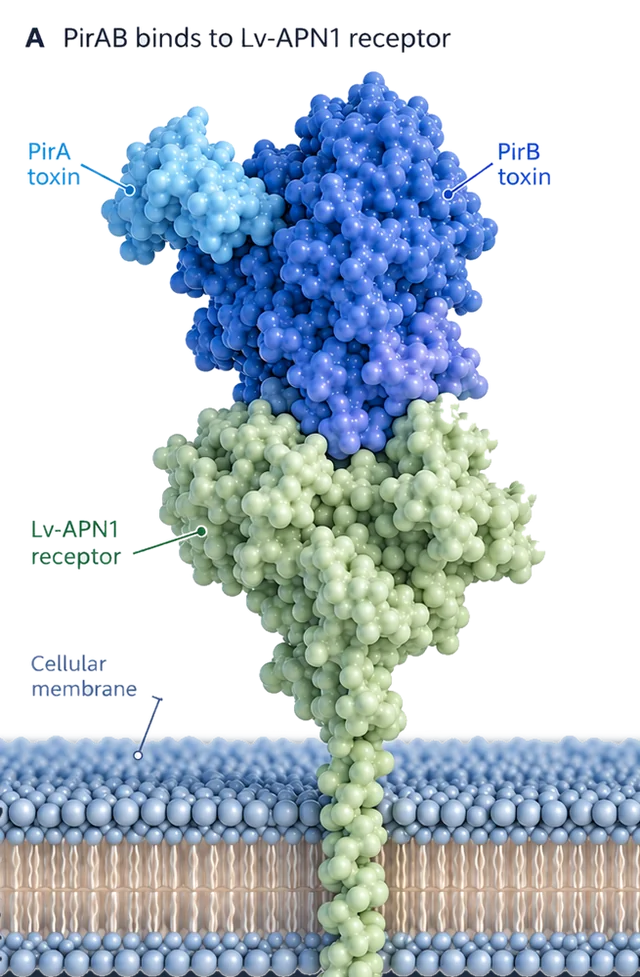
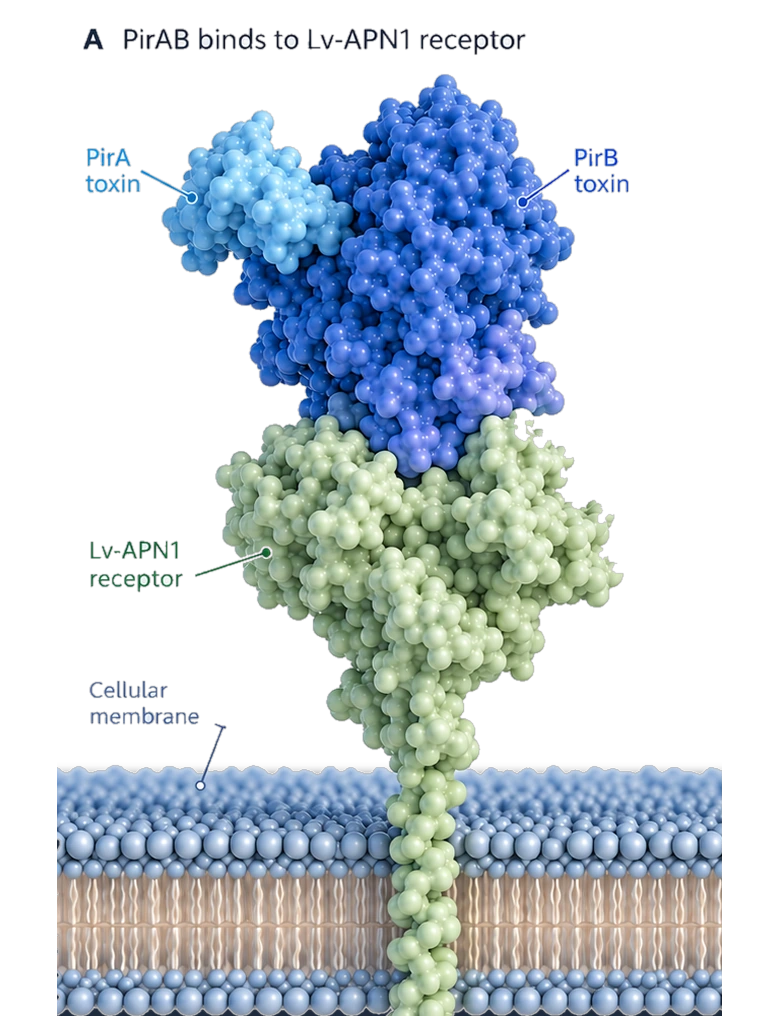
Add files via upload

diff --git a/index.html b/index.html
@@ -247,13 +247,17 @@
           <p>In our lead application, a Knotide Bio protein is designed to neutralise the toxin a pathogen needs to damage its host, rather than relying on broad antimicrobial activity, an approach we are extending to other pathogens, targets and species within the platform.</p>
           <p class="example-note">Knotide Bio's first application case is <em>AHPND in shrimp aquaculture</em>, chosen for its regulatory urgency, market size and a well-characterised molecular target. Sea lice in salmon aquaculture is the platform's second application, sharing the same core mechanism and administration routes already used by the industry.</p>
         </div>
-        <figure class="example-figure-col">
-          <img src="images/mechanism-panel-a.webp" alt="Diagram A: the PirA/PirB toxin complex binding the Lv-APN1 receptor at the cell membrane.">
-        </figure>
-        <figure class="example-figure-col">
-          <img src="images/mechanism-panel-b.webp" alt="Diagram B: the designed protein blocker occupying the PirB binding site, preventing the toxin complex from reaching the Lv-APN1 receptor, with a close-up inset of the blocking interaction.">
-          <figcaption class="example-figcaption">Mechanism of action: the designed protein blocker prevents the toxin complex from binding the cell-surface receptor.</figcaption>
-        </figure>
+        <div class="example-figures">
+          <div class="example-figures-row">
+            <figure class="example-figure-col">
+              <img src="images/mechanism-panel-a.webp" alt="Diagram A: the PirA/PirB toxin complex binding the Lv-APN1 receptor at the cell membrane.">
+            </figure>
+            <figure class="example-figure-col">
+              <img src="images/mechanism-panel-b.webp" alt="Diagram B: the designed protein blocker occupying the PirB binding site, preventing the toxin complex from reaching the Lv-APN1 receptor, with a close-up inset of the blocking interaction.">
+            </figure>
+          </div>
+          <p class="example-figcaption">Mechanism of action A&rarr;B: the designed protein blocker prevents the toxin complex from binding the cell-surface receptor (B).</p>
+        </div>
       </div>
     </div>
   </section>

diff --git a/styles.css b/styles.css
@@ -560,9 +560,14 @@ header {
 .example-copy .foco-tag { margin-bottom: 1rem; display: inline-block; }
 .example-panel {
   display: grid;
-  grid-template-columns: 1fr 1fr 1fr;
-  gap: clamp(20px, 3vw, 36px);
+  grid-template-columns: 1fr 1.15fr;
+  gap: clamp(28px, 4vw, 48px);
   align-items: start;
+}
+.example-figures-row {
+  display: grid;
+  grid-template-columns: 1fr 1fr;
+  gap: 10px;
 }
 .example-figure-col { margin: 0; }
 .example-figure-col img {
@@ -576,11 +581,15 @@ header {
   color: var(--slate);
   font-style: italic;
   max-width: none;
-  margin: 0.6rem 0 0;
+  margin: 0.7rem 0 0;
+  text-align: center;
 }
 @media (max-width: 900px) {
   .example-panel { grid-template-columns: 1fr; }
-  .example-figure-col { max-width: 340px; margin: 0 auto; }
+  .example-figures { max-width: 480px; margin: 0 auto; }
+}
+@media (max-width: 560px) {
+  .example-figures-row { grid-template-columns: 1fr; }
 }
 
 /* ---------- Funding & partnerships ---------- */
